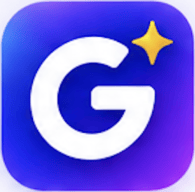
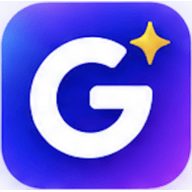
Add Grambi PWA support

diff --git a/resize_pwa_icons.py b/resize_pwa_icons.py
@@ -1,0 +1,30 @@
+from PIL import Image
+from pathlib import Path
+
+public = Path("public")
+
+for filename, size in [
+    ("pwa-192.png", 192),
+    ("pwa-512.png", 512),
+]:
+    path = public / filename
+
+    image = Image.open(path).convert("RGBA")
+
+    # Preserve the logo's aspect ratio
+    image.thumbnail((size, size), Image.Resampling.LANCZOS)
+
+    # Create an exact square transparent canvas
+    canvas = Image.new("RGBA", (size, size), (255, 255, 255, 0))
+
+    # Center the logo
+    x = (size - image.width) // 2
+    y = (size - image.height) // 2
+
+    canvas.paste(image, (x, y), image)
+
+    # Save with exact dimensions
+    canvas.save(path, "PNG")
+
+    print(f"{filename}: {canvas.size[0]} x {canvas.size[1]}")
+
